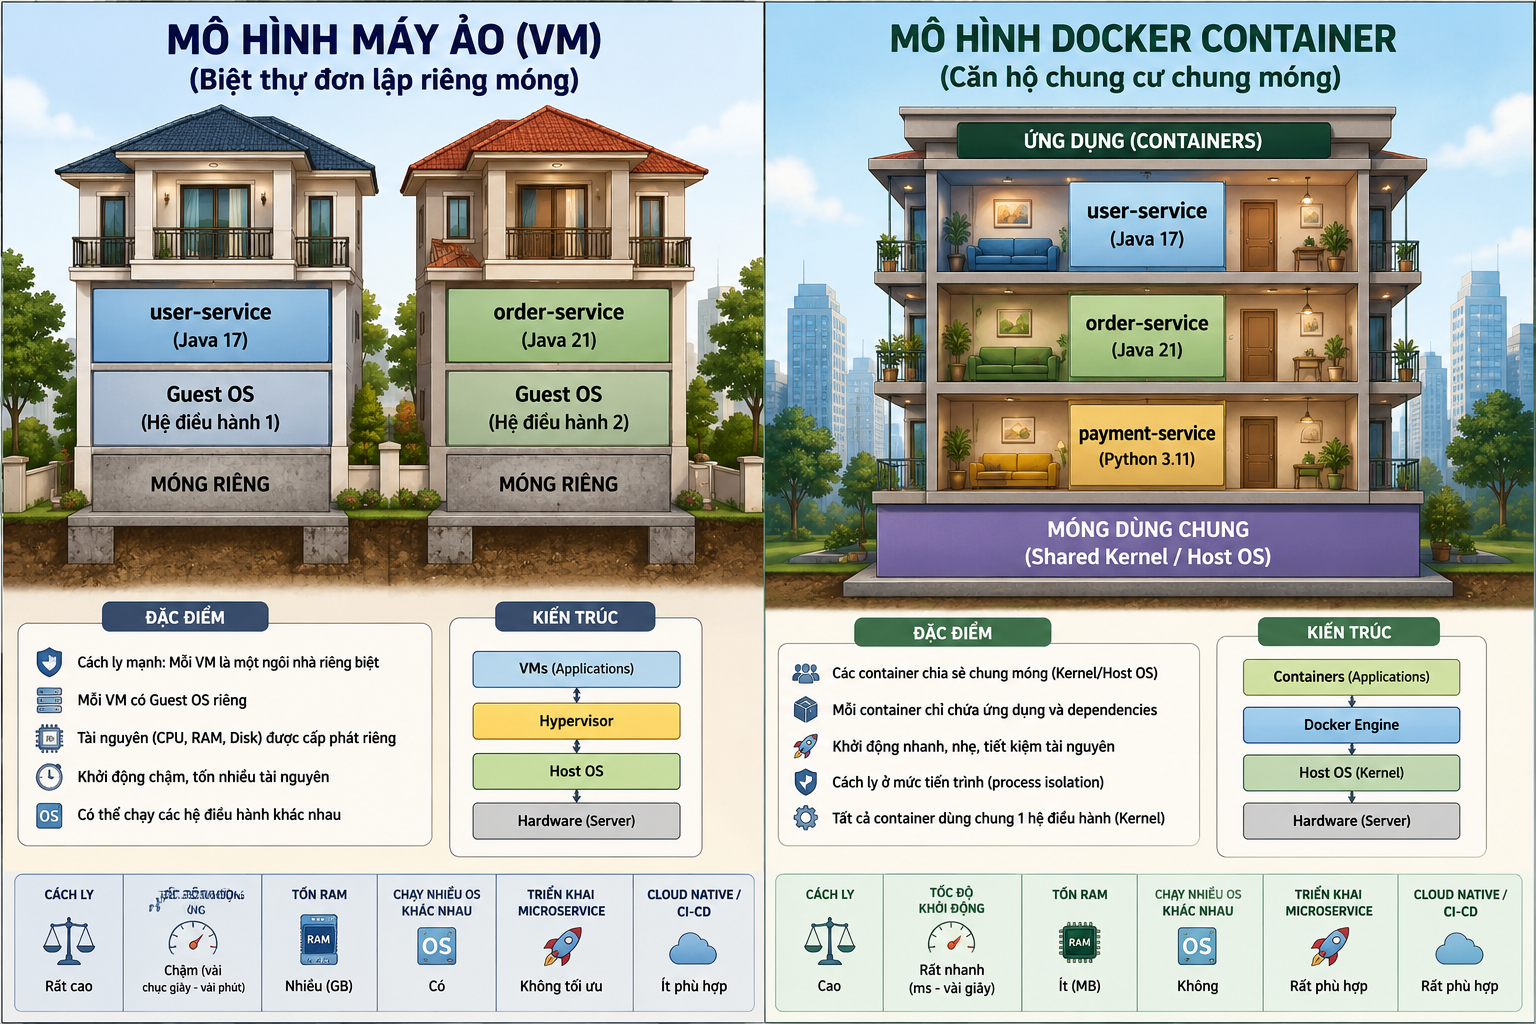
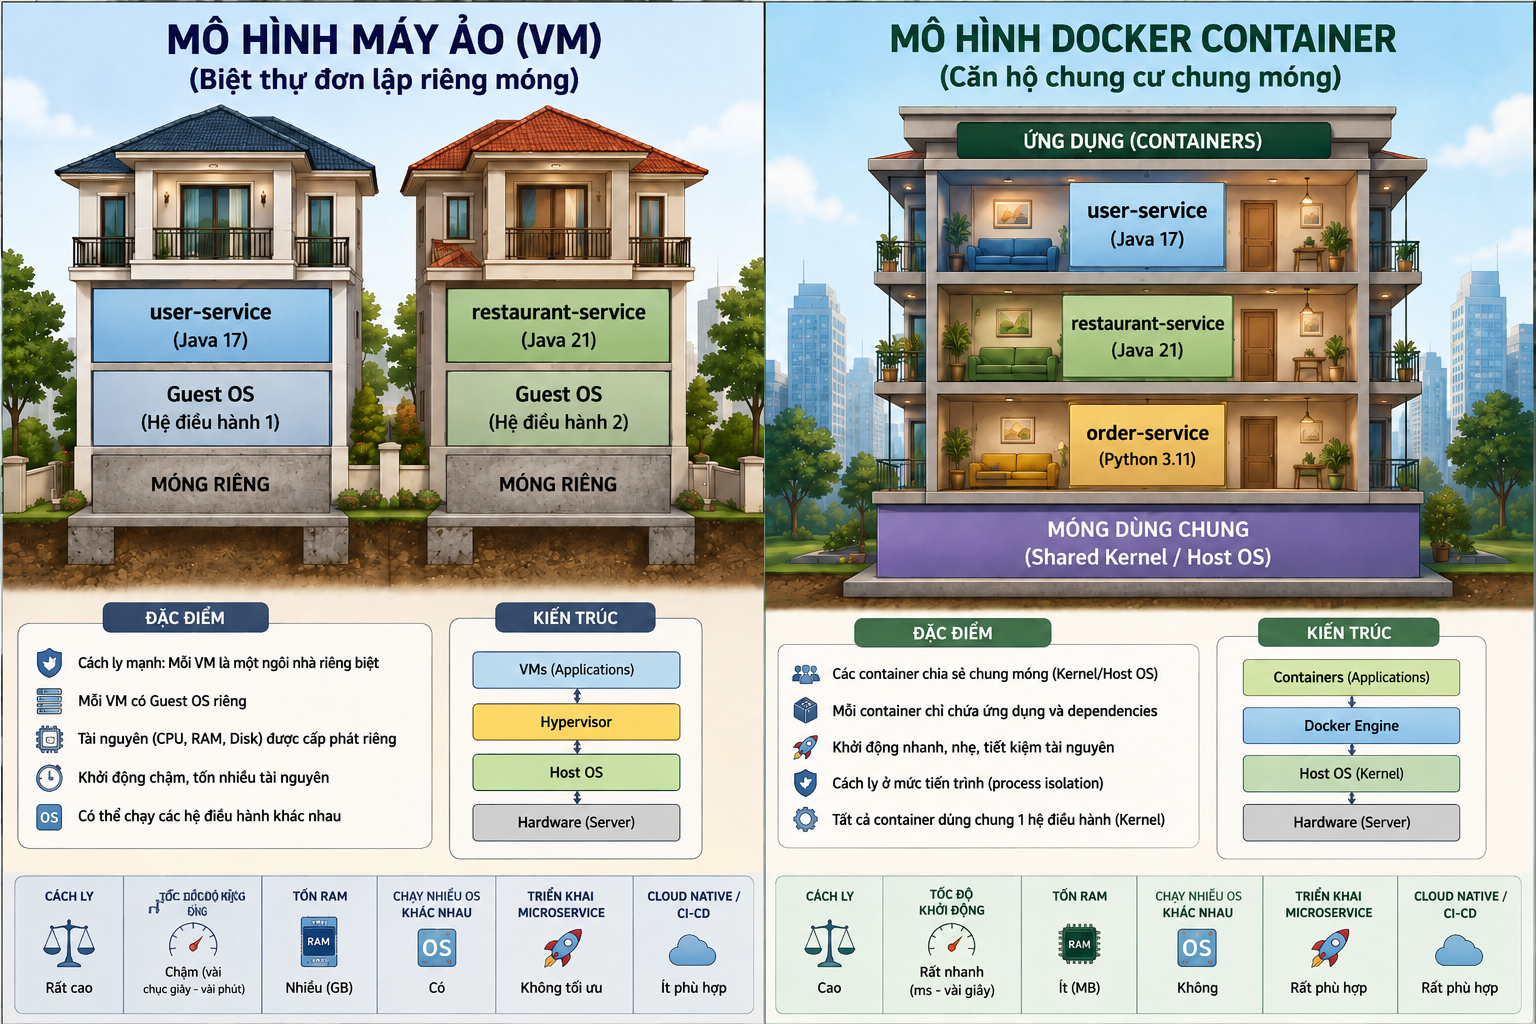
fix order-service -> restaurant service

diff --git a/kich_ban_mon_hoc.md b/kich_ban_mon_hoc.md
@@ -236,7 +236,7 @@ java -jar user-service.jar
 ```text
     MÔ HÌNH MÁY ẢO (VM)                 MÔ HÌNH DOCKER CONTAINER
     ┌───────────────────────────────┐   ┌───────────────────────────────┐
-    │ App (User)  │ App (Order)     │   │ App (User)  │ App (Order)     │
+    │ App (User)  │ App (Restaurant)│   │ App (User)  │ App (Restaurant)│
     ├─────────────┼─────────────────┤   ├─────────────┼─────────────────┤
     │ Thư viện    │ Thư viện        │   │ Thư viện    │ Thư viện        │
     ├─────────────┼─────────────────┤   ├───────────────────────────────┤
@@ -331,7 +331,7 @@ docker images
 
 * **Trạng thái:** STATE 1 — Containerization.
 
-* **Vấn đề:** Trước khi tiến hành đóng gói `notification-service` hay `order-service` thành container, máy tính của lập trình viên hoặc máy chủ phải được thiết lập môi trường Docker chạy ổn định, đồng bộ về phiên bản engine.
+* **Vấn đề:** Trước khi tiến hành đóng gói `user-service` hay `restaurant-service` thành container, máy tính của lập trình viên hoặc máy chủ phải được thiết lập môi trường Docker chạy ổn định, đồng bộ về phiên bản engine.
 
 #### 3. Nội dung trọng tâm
 
@@ -497,7 +497,7 @@ exit
 #### 2. Bối cảnh hệ thống
 
 * **Trạng thái:** STATE 1 — Containerization (Các container độc lập).
-* **Vấn đề:** Mặc định khi khởi chạy, các container dịch vụ của QuickBite (`user-service`, `order-service`) sẽ tự động rơi vào mạng `default bridge`. Trong mạng mặc định này, các container chỉ có thể giao tiếp với nhau bằng địa chỉ IP nội bộ (IP này thay đổi liên tục mỗi khi restart container), không thể phân giải tên gọi (Container Name) của nhau, gây mất ổn định kết nối.
+* **Vấn đề:** Mặc định khi khởi chạy, các container dịch vụ của QuickBite (`user-service`, `restaurant-service`) sẽ tự động rơi vào mạng `default bridge`. Trong mạng mặc định này, các container chỉ có thể giao tiếp với nhau bằng địa chỉ IP nội bộ (IP này thay đổi liên tục mỗi khi restart container), không thể phân giải tên gọi (Container Name) của nhau, gây mất ổn định kết nối.
 
 #### 3. Nội dung trọng tâm
 
@@ -552,7 +552,7 @@ docker run --rm --network quickbite-net alpine ping -c 3 service-alpha
 #### 2. Bối cảnh hệ thống
 
 * **Trạng thái:** STATE 1 — Containerization.
-* **Vấn đề:** `order-service` cần kết nối tới `quickbite-db` (Postgres). Nếu chúng ta cấu hình URL kết nối bằng IP nội bộ của container Postgres (ví dụ: `11.0.0.5`), hệ thống sẽ lỗi ngay lập tức khi container Postgres bị restart và Docker cấp cho nó một IP mới (ví dụ: `11.0.0.6`).
+* **Vấn đề:** `restaurant-service` cần kết nối tới `quickbite-db` (Postgres). Nếu chúng ta cấu hình URL kết nối bằng IP nội bộ của container Postgres (ví dụ: `11.0.0.5`), hệ thống sẽ lỗi ngay lập tức khi container Postgres bị restart và Docker cấp cho nó một IP mới (ví dụ: `11.0.0.6`).
 
 #### 3. Nội dung trọng tâm
 

diff --git a/sessions/ss2/session_02_lesson_02.md b/sessions/ss2/session_02_lesson_02.md
@@ -16,7 +16,7 @@ Sau khi hoàn thành bài học này, bạn sẽ có khả năng:
 
 ### PHẦN 2. VẤN ĐỀ THỰC TẾ (LÀM SAO ĐỂ CHUYỂN GIAO MÔI TRƯỜNG MÀ KHÔNG BỊ LỆCH PHA?)
 
-Ở Lesson 1, chúng ta đã hiểu lý do vì sao Container ra đời để giải quyết bài toán cô lập môi trường chạy (như chạy song song `user-service` Java 17 và `order-service` Java 21) mà không làm lãng phí RAM của server như Máy ảo (VM). 
+Ở Lesson 1, chúng ta đã hiểu lý do vì sao Container ra đời để giải quyết bài toán cô lập môi trường chạy (như chạy song song `user-service` Java 17 và `restaurant-service` Java 21) mà không làm lãng phí RAM của server như Máy ảo (VM). 
 
 Nhưng một câu hỏi thực tế lớn hơn xuất hiện: **Làm thế nào để chúng ta đóng gói toàn bộ môi trường chạy phức tạp đó và chuyển giao nó từ máy cá nhân lên server Staging/Production một cách đồng nhất?**
 
@@ -50,7 +50,7 @@ Hệ sinh thái Docker xoay quanh ba khái niệm cốt lõi đại diện cho b
   - **Bất biến (Immutable):** Một khi Image đã được build thành công, không ai có thể sửa đổi nội dung bên trong nó. Muốn sửa cấu hình mặc định hoặc code, bạn bắt buộc phải build một Image mới.
   - **Cấu trúc phân lớp (Layers):** Docker Image được cấu tạo từ nhiều lớp file system xếp chồng lên nhau. 
     - Ví dụ: Lớp đáy là OS Ubuntu tối giản, lớp tiếp theo là JDK 17, lớp trên cùng là code `user-service.jar`. 
-    - Cơ chế này giúp tái sử dụng tài nguyên cực kỳ tốt. Nếu bạn build dịch vụ `order-service` chạy Java 17, Docker sẽ tái sử dụng lại các layer OS và JDK 17 có sẵn ở máy, chỉ tải thêm layer chứa file JAR mới của `order-service`.
+    - Cơ chế này giúp tái sử dụng tài nguyên cực kỳ tốt. Nếu bạn build dịch vụ `restaurant-service` chạy Java 17, Docker sẽ tái sử dụng lại các layer OS và JDK 17 có sẵn ở máy, chỉ tải thêm layer chứa file JAR mới của `restaurant-service`.
   - **Khởi nguồn từ Dockerfile (Bản công thức):** Để tự mình tạo ra (build) một Docker Image cho dịch vụ cá nhân, lập trình viên sẽ viết các chỉ dẫn trong một file văn bản trần tên là **Dockerfile**. File này định nghĩa các bước như: lấy hệ điều hành nào làm gốc, cài JDK nào, copy file JAR vào đâu và chạy câu lệnh gì khi khởi động. (Chúng ta sẽ được học cách viết Dockerfile chi tiết ở các Session sau).
 
 #### 3.2 Docker Container (Thực thể sống động - Tương đương Object trong OOP)

diff --git a/sessions/ss2/session_02_lesson_03.md b/sessions/ss2/session_02_lesson_03.md
@@ -18,7 +18,7 @@ Sau khi hoàn thành bài học này, bạn sẽ có khả năng:
 
 Ở Lesson 2, chúng ta đã nắm được lý thuyết nền tảng về bộ ba Docker Image, Container và Registry. Nhưng mọi lý thuyết sẽ là vô nghĩa nếu bạn không thể tự mình gõ những dòng lệnh đầu tiên để kiểm tra môi trường.
 
-Để bắt tay vào đóng gói `user-service` và `order-service` của hệ thống QuickBite, việc đầu tiên bạn cần làm là cài đặt Docker lên máy tính cá nhân. Lúc này, bạn sẽ đối mặt với các vấn đề:
+Để bắt tay vào đóng gói `user-service` và `restaurant-service` của hệ thống QuickBite, việc đầu tiên bạn cần làm là cài đặt Docker lên máy tính cá nhân. Lúc này, bạn sẽ đối mặt với các vấn đề:
 * Làm thế nào để cài đặt Docker đúng chuẩn?
 * Tại sao giao diện dòng lệnh của Docker trên Windows, macOS và Linux lại giống hệt nhau, nhưng cơ chế hoạt động bên dưới của chúng lại rất khác biệt?
 * Nếu bạn dùng Windows, làm thế nào để cấu hình và chạy Docker trực tiếp trên nhân Linux ảo thông qua WSL 2 mà không làm thấu hoặc đơ hệ thống?
